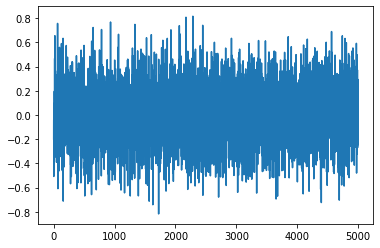
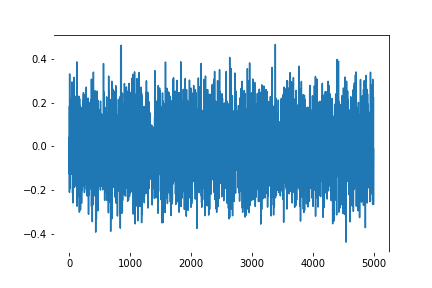
working on augmentations

diff --git a/loader.py b/loader.py
@@ -15,8 +15,8 @@ class GuassianNoise(nn.Module):
         self.mean = mean
     
     def forward(self ,x):
-        sig = random.uniform(self.std_dev[0], self.std_dev[1])
-        self.noise = tch.randn(x.shape) * sig + self.mean
+        self.sig = random.uniform(self.std_dev[0], self.std_dev[1])
+        self.noise = tch.randn(x.shape) * self.sig + self.mean
         return x + self.noise
 
 # Blur  
@@ -26,8 +26,8 @@ class GaussianBlur(nn.Module):
         self.sigma = sigma
         
     def forward(self, x):
-        sig = random.uniform(self.sigma[0], self.sigma[1])
-        return tch.tensor(gaussian_filter(x, sig))
+        self.sig = random.uniform(self.sigma[0], self.sigma[1])
+        return tch.tensor(gaussian_filter(x, self.sig))
 
 
 # Scaling

diff --git a/augmentations.md b/augmentations.md
@@ -4,11 +4,22 @@
 
 #### GaussianNoise(Jittering)
 
-A random standard deviation between 0.1 and 0.25 is uniformly picked and with a mean 0 we create a noise in the gaussian distribution with standard deviation, mean and *added* to the noise.
+A random standard deviation between 0.1 and 0.25 is uniformly picked and with a mean 0 we create a noise in the gaussian distribution with standard deviation, mean and the noise is *added* to the ecg.
 
 
 ![Gaussian Noise](/images/gaussian_noise.png "Gaussian Noise")
 
-This is the noise that we add to the original ECG to "jitter" it
+This is the noise that we add to the original ECG to "jitter" it produces the signal below
+
+![Gaussian Noise Comparison](/images/gaussianNoise_comparison.png "Gaussian Noise Comparison with original ECG")
+
+
+
+### GaussianBlur
+
+This augmentation is made by using scipy's gaussian_filter function where a gaussian kernel is created with a randomly picked standard deviation uniformly from the range(0.1, 0.25)
+
+
+![Gaussian Blur Comparison](/images/gaussianBlur_comparison.png "Gaussian Blur Comparison with original ECG")
 
 
